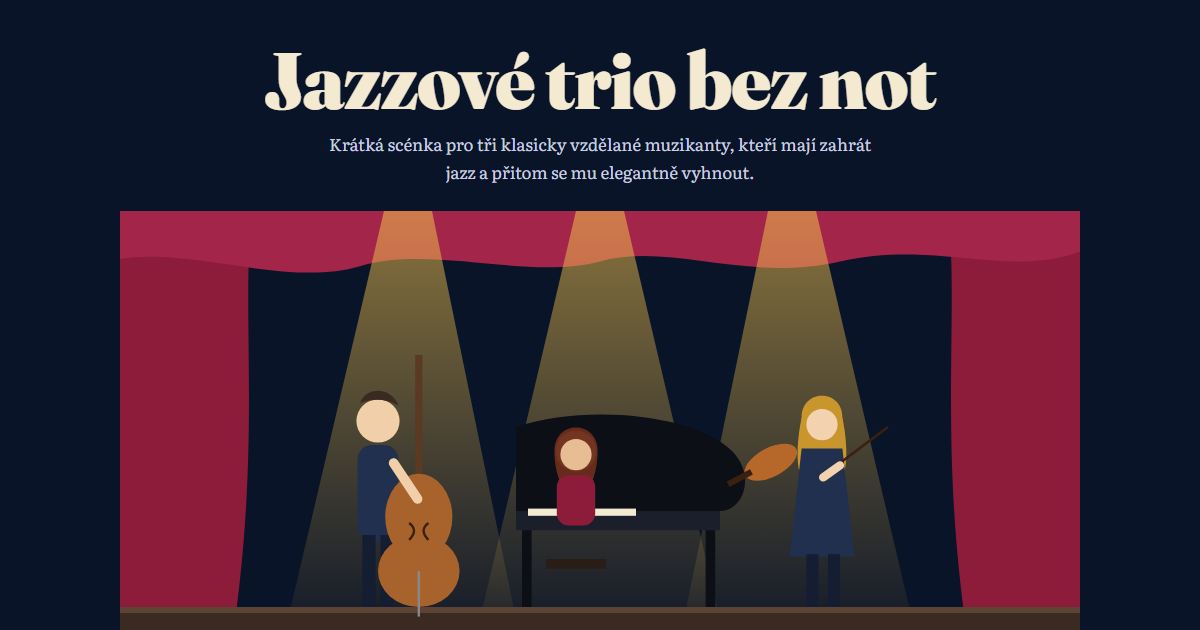
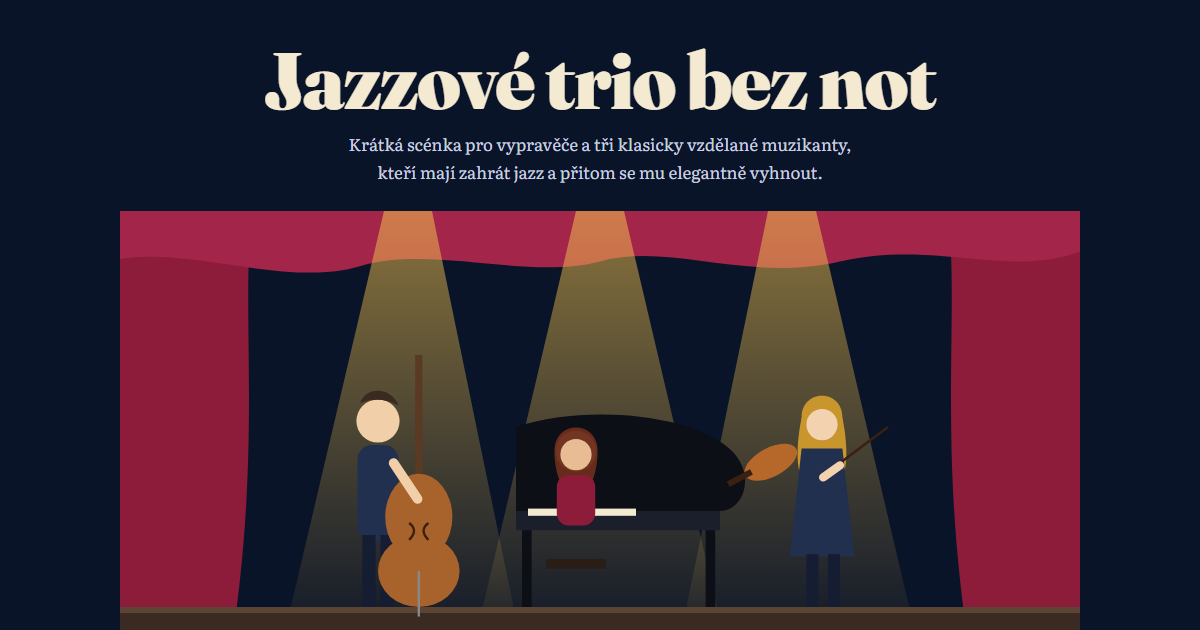
Vypravěč s úvodem, širší stránka, houslistka má sklenici

Changed region(s): [[0.2775, 0.2111, 0.74, 0.3016]]

diff --git a/index.html b/index.html
@@ -42,13 +42,13 @@ a{color:var(--plum)}
 .hero p{margin:0 auto 1.5rem;max-width:34rem;color:#c9cfe0;font-size:1.05rem}
 .hero svg{margin:0 auto}
 
-main{max-width:42rem;margin:0 auto;padding:3rem 1.25rem 4rem}
+main{max-width:60rem;margin:0 auto;padding:3rem 1.25rem 4rem}
 h2{font-family:Fraunces,Georgia,serif;font-weight:700;font-size:2rem;line-height:1.15;margin:3.5rem 0 1rem}
 h2:first-child{margin-top:0}
 .intro p{margin:0 0 1.1rem}
 .intro p:first-of-type::first-letter{font-family:Fraunces,Georgia,serif;font-weight:900;float:left;font-size:3.6rem;line-height:.85;padding:.25rem .5rem 0 0;color:var(--plum)}
 
-.cast{display:grid;grid-template-columns:repeat(3,1fr);gap:.75rem;margin:1.5rem 0 0}
+.cast{display:grid;grid-template-columns:repeat(4,1fr);gap:.75rem;margin:1.5rem 0 0}
 .cast div{background:var(--card);border:1px solid var(--line);border-radius:14px;padding:.9rem .6rem;text-align:center}
 .cast svg{width:72px;margin:0 auto .4rem}
 .cast b{display:block;font-family:Fraunces,Georgia,serif}
@@ -63,9 +63,11 @@ h2:first-child{margin-top:0}
 .line{display:grid;grid-template-columns:7.5rem 1fr;gap:.75rem;margin:.55rem 0}
 .line b{font-family:Fraunces,Georgia,serif;color:var(--plum);font-weight:700}
 .line i{color:var(--muted)}
-@media (max-width:520px){.line{grid-template-columns:1fr;gap:0}.line b{font-size:.95rem}.cast{grid-template-columns:1fr}}
+@media (max-width:520px){.line{grid-template-columns:1fr;gap:0}.line b{font-size:.95rem}.cast{grid-template-columns:1fr 1fr}}
+.line.vypravec span{font-style:italic}
 
 figure{margin:2rem 0;background:var(--card);border:1px solid var(--line);border-radius:18px;padding:1.25rem}
+figure svg{max-width:28rem;margin:0 auto}
 figcaption{font-size:.9rem;color:var(--muted);text-align:center;margin-top:.6rem}
 
 .notes{display:flex;gap:.35rem;justify-content:center;align-items:flex-end;height:7rem;overflow-x:auto;padding-bottom:.25rem}
@@ -88,7 +90,7 @@ footer{text-align:center;color:var(--muted);font-size:.9rem;padding:0 1rem 2.5re
 <header class="hero">
   <div class="hero-inner">
     <h1>Jazzové trio bez&nbsp;not</h1>
-    <p>Krátká scénka pro tři klasicky vzdělané muzikanty, kteří mají zahrát jazz a&nbsp;přitom se mu elegantně vyhnout.</p>
+    <p>Krátká scénka pro vypravěče a&nbsp;tři klasicky vzdělané muzikanty, kteří mají zahrát jazz a&nbsp;přitom se mu elegantně vyhnout.</p>
     <svg viewBox="0 0 800 380" role="img" aria-label="Jeviště se třemi hudebníky pod reflektory: kontrabasista, klavíristka a houslistka">
       <defs>
         <linearGradient id="spot" x1="0" y1="0" x2="0" y2="1">
@@ -148,11 +150,13 @@ footer{text-align:center;color:var(--muted);font-size:.9rem;padding:0 1rem 2.5re
   <section class="intro">
     <h2>Úvod</h2>
     <p>Tohle se mi zdálo. Sen byl tak živý a&nbsp;vtipný, že jsem si ho po probuzení chtěl hned zapsat, než ho zapomenu.</p>
-    <p>Do základní umělecké školy dorazila zpráva, ze které učitelům zatrnulo: přijede televize a&nbsp;škola má postavit jazzové trio, které před kamerami něco zahraje. Housle, kontrabas, klavír. Sestava je na světě během pár minut, horší je to s&nbsp;repertoárem.</p>
-    <p>Jak už to u&nbsp;vystudovaných umělců bývá, klasiku mají v&nbsp;malíčku, ale jazzu se bojí jako čert kříže. Tam se totiž improvizuje, a&nbsp;improvizace bez not je pro člověka zvyklého na přesný zápis něco jako skok do studené vody bez plavek.</p>
-    <p>Naštěstí existuje řešení: scénka, která požadované minuty poctivě vyplní, publikum pobaví a&nbsp;skutečný jazz v&nbsp;ní zazní jen na pár taktů.</p>
+    <p>Vyšla z&nbsp;toho scénka na pár minut pro tři muzikanty a&nbsp;vypravěče. Požadované minuty poctivě vyplní, publikum pobaví a&nbsp;skutečný jazz v&nbsp;ní zazní jen na pár taktů.</p>
 
     <div class="cast">
+      <div>
+        <svg viewBox="0 0 80 80" aria-hidden="true"><circle cx="40" cy="40" r="38" fill="var(--stage)"/><rect x="34" y="18" width="12" height="26" rx="6" fill="#f4ead2"/><path d="M28 38q12 16 24 0M40 50v12M32 62h16" stroke="#f2c14e" stroke-width="3" fill="none" stroke-linecap="round"/></svg>
+        <b>Vypravěč</b><span>uvede příběh</span>
+      </div>
       <div>
         <svg viewBox="0 0 80 80" aria-hidden="true"><circle cx="40" cy="40" r="38" fill="var(--stage)"/><rect x="38" y="12" width="4" height="34" fill="#c98a4b"/><ellipse cx="40" cy="50" rx="13" ry="12" fill="#a8622c"/><ellipse cx="40" cy="62" rx="16" ry="11" fill="#a8622c"/></svg>
         <b>Kontrabasista</b><span>drží rytmus i&nbsp;humor</span>
@@ -163,7 +167,7 @@ footer{text-align:center;color:var(--muted);font-size:.9rem;padding:0 1rem 2.5re
       </div>
       <div>
         <svg viewBox="0 0 80 80" aria-hidden="true"><circle cx="40" cy="40" r="38" fill="var(--stage)"/><g transform="rotate(-35 40 40)"><ellipse cx="40" cy="46" rx="11" ry="15" fill="#b5682a"/><rect x="38" y="16" width="4" height="22" fill="#3a2010"/></g><path d="M18 22l44 36" stroke="#f2c14e" stroke-width="2"/></svg>
-        <b>Houslistka</b><span>nosí s&nbsp;sebou prázdnou sklenici</span>
+        <b>Houslistka</b><span>má s&nbsp;sebou prázdnou sklenici</span>
       </div>
     </div>
 
@@ -180,7 +184,12 @@ footer{text-align:center;color:var(--muted);font-size:.9rem;padding:0 1rem 2.5re
   <section class="scene">
     <h2>Scénář</h2>
 
-    <p class="dir">Na pódium přicházejí tři hudebníci s&nbsp;nástroji. Houslistka nese navíc prázdnou zavařovací sklenici s&nbsp;víčkem a&nbsp;bez vysvětlení ji postaví na zem vedle pultu. Rozestaví se, houslistka otevře desky na pultu. Jsou prázdné. Zarazí se.</p>
+    <p class="dir">Před pódiem stojí vypravěč.</p>
+
+    <div class="line vypravec"><b>Vypravěč</b><span>Do jedné základní umělecké školy dorazila zpráva, ze které učitelům zatrnulo. Přijede televize a&nbsp;škola má postavit jazzové trio, které před kamerami něco zahraje. Housle, kontrabas, klavír. Sestava byla na světě za pár minut, horší to bylo s&nbsp;repertoárem.</span></div>
+    <div class="line vypravec"><b>Vypravěč</b><span>Jak už to u&nbsp;vystudovaných umělců bývá, klasiku mají v&nbsp;malíčku, ale jazzu se bojí jako čert kříže. Tam se totiž improvizuje. A&nbsp;improvizace bez not je pro člověka zvyklého na přesný zápis jako skok do studené vody bez plavek. Tak se podívejme, jak to dopadlo.</span></div>
+
+    <p class="dir">Vypravěč ustoupí stranou. Na pódium přicházejí tři hudebníci s&nbsp;nástroji. Houslistka nese navíc prázdnou zavařovací sklenici s&nbsp;víčkem a&nbsp;bez vysvětlení ji postaví na zem vedle pultu. Rozestaví se, houslistka otevře desky na pultu. Jsou prázdné. Zarazí se.</p>
 
     <figure>
       <svg viewBox="0 0 420 170" role="img" aria-label="Tři prázdné notové pulty">
@@ -248,6 +257,9 @@ footer{text-align:center;color:var(--muted);font-size:.9rem;padding:0 1rem 2.5re
     <div class="line"><b>Kontrabasista</b><span><i>(rozzáří se)</i> Tak fajn! Půjdeme k&nbsp;tobě domů zadžemovat!</span></div>
 
     <p class="dir">Houslistka zvedne sklenici nad hlavu, všichni tři se ukloní a&nbsp;spokojeně odcházejí z&nbsp;pódia.</p>
+
+    <div class="line vypravec"><b>Vypravěč</b><span>A&nbsp;tak bylo zadání splněno: minuty vyplněny, jazz zahrán a&nbsp;nikdo nemusel improvizovat.</span></div>
+    <p class="dir">Vypravěč se ukloní a&nbsp;odejde. (Závěrečná věta je volitelná.)</p>
   </section>
 
   <section class="finale">
